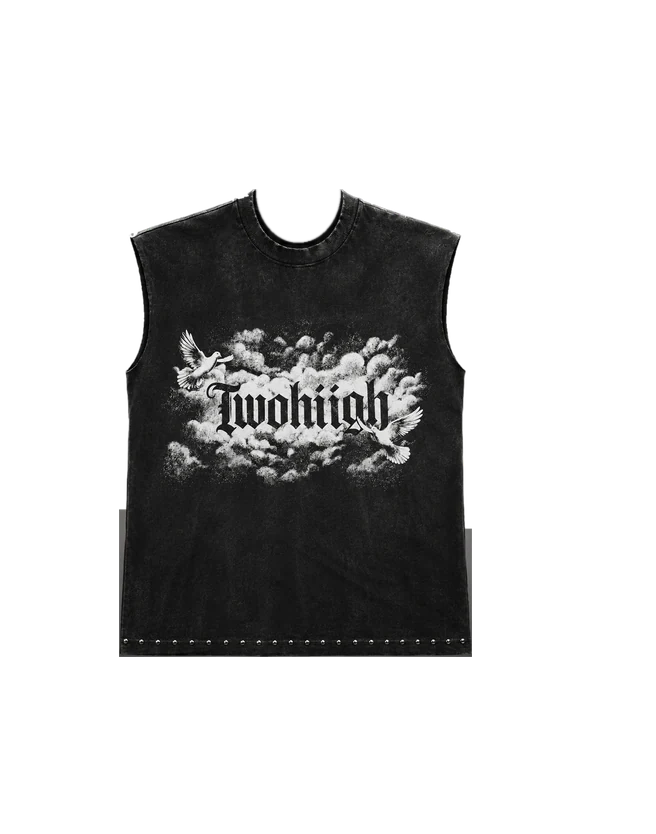
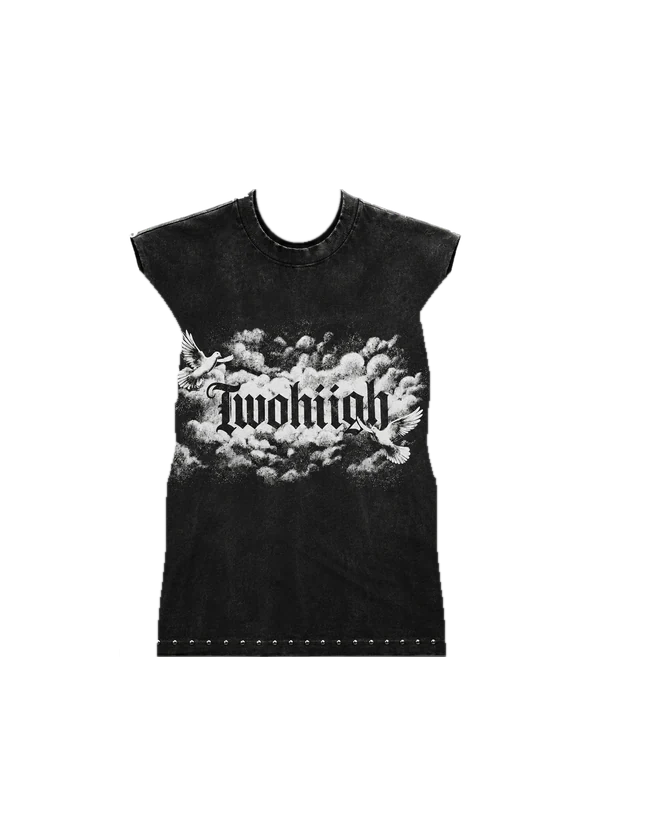
Make the sleeveless pieces look worn
The garment covers his shoulders, and his arms now come out through a
curved armhole and hang in front of the garment's sides down to the
hem, instead of sitting behind a flat panel.

Changed region(s): [[0.1829, 0.3118, 0.2744, 0.8106], [0.6402, 0.3118, 0.7317, 0.8106]]

diff --git a/index.html b/index.html
@@ -64,24 +64,24 @@
 
       <div class="jc__carousel">
         <div class="jc__item">
-          <img src="jacket-carousel/assets/tee1.webp?v=4" alt="Piece 01">
-          <img class="jc__back" src="jacket-carousel/assets/tee1-back.webp?v=4" alt="" aria-hidden="true">
+          <img src="jacket-carousel/assets/tee1.webp?v=5" alt="Piece 01">
+          <img class="jc__back" src="jacket-carousel/assets/tee1-back.webp?v=5" alt="" aria-hidden="true">
         </div>
         <div class="jc__item">
-          <img src="jacket-carousel/assets/tee2.webp?v=4" alt="Piece 02">
-          <img class="jc__back" src="jacket-carousel/assets/tee2-back.webp?v=4" alt="" aria-hidden="true">
+          <img src="jacket-carousel/assets/tee2.webp?v=5" alt="Piece 02">
+          <img class="jc__back" src="jacket-carousel/assets/tee2-back.webp?v=5" alt="" aria-hidden="true">
         </div>
         <div class="jc__item">
-          <img src="jacket-carousel/assets/tee3.webp?v=4" alt="Piece 03">
-          <img class="jc__back" src="jacket-carousel/assets/tee3-back.webp?v=4" alt="" aria-hidden="true">
+          <img src="jacket-carousel/assets/tee3.webp?v=5" alt="Piece 03">
+          <img class="jc__back" src="jacket-carousel/assets/tee3-back.webp?v=5" alt="" aria-hidden="true">
         </div>
         <div class="jc__item">
-          <img src="jacket-carousel/assets/tee4.webp?v=4" alt="Piece 04">
-          <img class="jc__back" src="jacket-carousel/assets/tee4-back.webp?v=4" alt="" aria-hidden="true">
+          <img src="jacket-carousel/assets/tee4.webp?v=5" alt="Piece 04">
+          <img class="jc__back" src="jacket-carousel/assets/tee4-back.webp?v=5" alt="" aria-hidden="true">
         </div>
         <div class="jc__item">
-          <img src="jacket-carousel/assets/tee5.webp?v=4" alt="Piece 05">
-          <img class="jc__back" src="jacket-carousel/assets/tee5-back.webp?v=4" alt="" aria-hidden="true">
+          <img src="jacket-carousel/assets/tee5.webp?v=5" alt="Piece 05">
+          <img class="jc__back" src="jacket-carousel/assets/tee5-back.webp?v=5" alt="" aria-hidden="true">
         </div>
       </div>
 

diff --git a/jacket-carousel/section.html b/jacket-carousel/section.html
@@ -17,24 +17,24 @@
 
     <div class="jc__carousel">
       <div class="jc__item">
-        <img src="jacket-carousel/assets/tee1.webp?v=4" alt="Piece 01">
-        <img class="jc__back" src="jacket-carousel/assets/tee1-back.webp?v=4" alt="" aria-hidden="true">
+        <img src="jacket-carousel/assets/tee1.webp?v=5" alt="Piece 01">
+        <img class="jc__back" src="jacket-carousel/assets/tee1-back.webp?v=5" alt="" aria-hidden="true">
       </div>
       <div class="jc__item">
-        <img src="jacket-carousel/assets/tee2.webp?v=4" alt="Piece 02">
-        <img class="jc__back" src="jacket-carousel/assets/tee2-back.webp?v=4" alt="" aria-hidden="true">
+        <img src="jacket-carousel/assets/tee2.webp?v=5" alt="Piece 02">
+        <img class="jc__back" src="jacket-carousel/assets/tee2-back.webp?v=5" alt="" aria-hidden="true">
       </div>
       <div class="jc__item">
-        <img src="jacket-carousel/assets/tee3.webp?v=4" alt="Piece 03">
-        <img class="jc__back" src="jacket-carousel/assets/tee3-back.webp?v=4" alt="" aria-hidden="true">
+        <img src="jacket-carousel/assets/tee3.webp?v=5" alt="Piece 03">
+        <img class="jc__back" src="jacket-carousel/assets/tee3-back.webp?v=5" alt="" aria-hidden="true">
       </div>
       <div class="jc__item">
-        <img src="jacket-carousel/assets/tee4.webp?v=4" alt="Piece 04">
-        <img class="jc__back" src="jacket-carousel/assets/tee4-back.webp?v=4" alt="" aria-hidden="true">
+        <img src="jacket-carousel/assets/tee4.webp?v=5" alt="Piece 04">
+        <img class="jc__back" src="jacket-carousel/assets/tee4-back.webp?v=5" alt="" aria-hidden="true">
       </div>
       <div class="jc__item">
-        <img src="jacket-carousel/assets/tee5.webp?v=4" alt="Piece 05">
-        <img class="jc__back" src="jacket-carousel/assets/tee5-back.webp?v=4" alt="" aria-hidden="true">
+        <img src="jacket-carousel/assets/tee5.webp?v=5" alt="Piece 05">
+        <img class="jc__back" src="jacket-carousel/assets/tee5-back.webp?v=5" alt="" aria-hidden="true">
       </div>
     </div>
 
